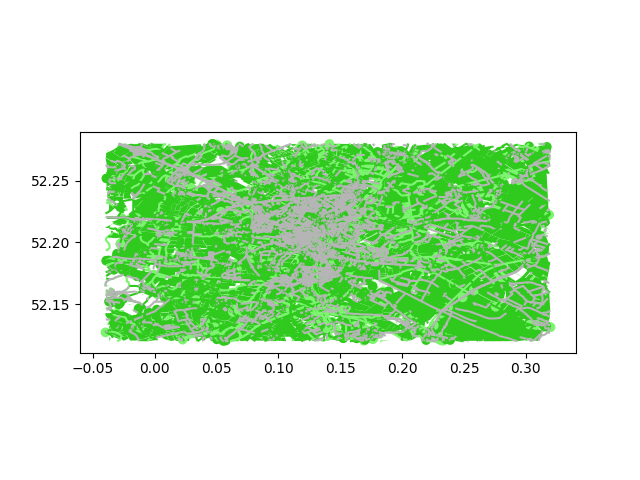
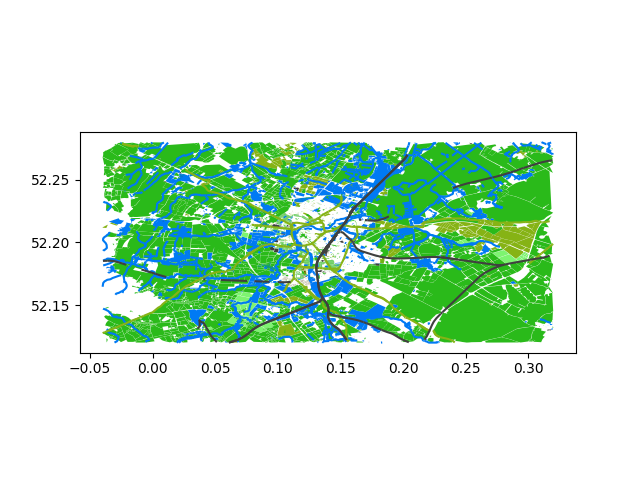
filtering out the important stuff

diff --git a/MapMaker.py b/MapMaker.py
@@ -7,13 +7,11 @@ import os
 class MapMaker:
 
     colors = {
-        "buildings": "#B5B5B5",
-        "landuse": "#30CA1F",
+        "buildings": "#664910",
+        "landuse": "#2aba1a",
         "natural": "#7DF470",
-        "places": "#009DBC",
-        "points": "#DFF01D",
-        "railways": "#BA7701",
-        "roads": "#EAEAEA",
+        "railways": "#40403f",
+        "roads": "#86b315",
         "waterways": "#007AF4"
     }
 
@@ -27,15 +25,17 @@ class MapMaker:
             city_map_files = []
             city_path = os.path.join(self.shape_files_dir, city, "shape")
             for fil in os.listdir(city_path):
-                if os.path.splitext(fil)[1] == ".shp":
+                file_name, ext = os.path.splitext(fil)
+                if ext == ".shp" and file_name != "points" and file_name != "places":
                     city_map_files.append(fil)
 
             city_data = {
                 "city_name": city_name,
-                "city_map_files": city_map_files,
+                "city_map_files": sorted(city_map_files, reverse=True),
                 "city_path": city_path
             }
 
+            print(city_data)
             city_maps.append(city_data)
 
         return city_maps
@@ -48,8 +48,15 @@ class MapMaker:
                 path = os.path.join(city_data["city_path"], map_file)
                 loc, _ = city_loc = os.path.splitext(map_file)
                 gdf = gpd.read_file(path)
-                gdf["color"] = [MapMaker.colors[loc]
-                                for i in gdf["osm_id"]]
+
+                # filtering the important stuff
+                if map_file == "roads.shp":
+                    gdf = gdf.loc[gdf["type"] == "primary"]
+                elif map_file == "buildings.shp":
+                    gdf = gdf.loc[gdf["type"] == "residential"]
+                elif map_file == "natural.shp":
+                    gdf = gdf.loc[gdf["type"] == "water"]
+                gdf["color"] = [MapMaker.colors[loc] for i in gdf["osm_id"]]
                 gdf_objects.append(gdf)
             concat_map = pd.concat(gdf_objects, sort=True)
             concat_gdf = gpd.GeoDataFrame(concat_map)

diff --git a/map.py b/map.py
@@ -2,11 +2,14 @@ from MapMaker import MapMaker
 
 
 def main():
-    shape_files_path = "./shapefiles"
-    map_maker = MapMaker(shape_files_path)
-    shapefiles = map_maker.get_shape_files()
-    merged = map_maker.concat_shape_files(shapefiles)
-    map_maker.plot_maps(merged)
+    try:
+        shape_files_path = "./shapefiles"
+        map_maker = MapMaker(shape_files_path)
+        shapefiles = map_maker.get_shape_files()
+        merged = map_maker.concat_shape_files(shapefiles)
+        map_maker.plot_maps(merged)
+    except:
+        print("Something went wrong")
 
 
 if __name__ == "__main__":
